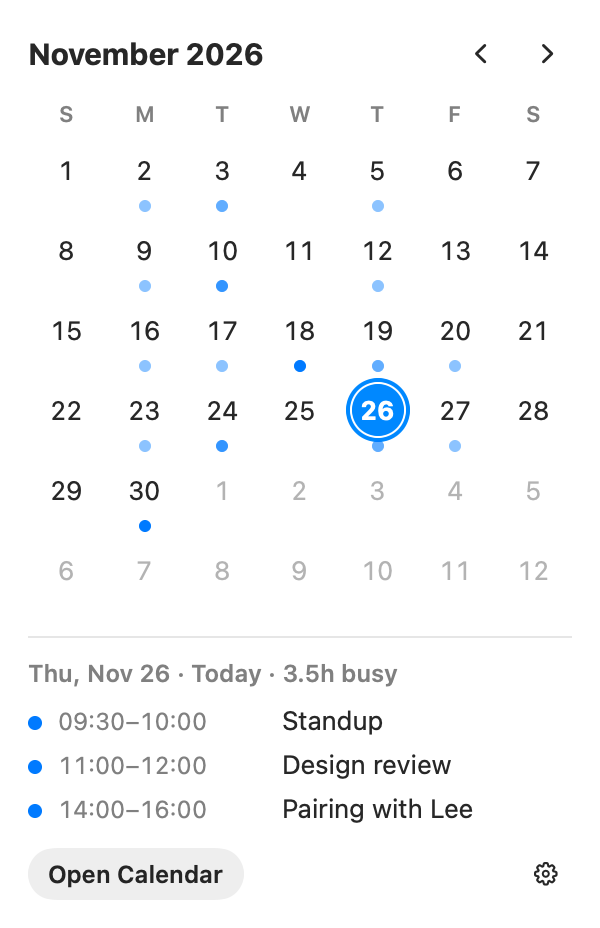
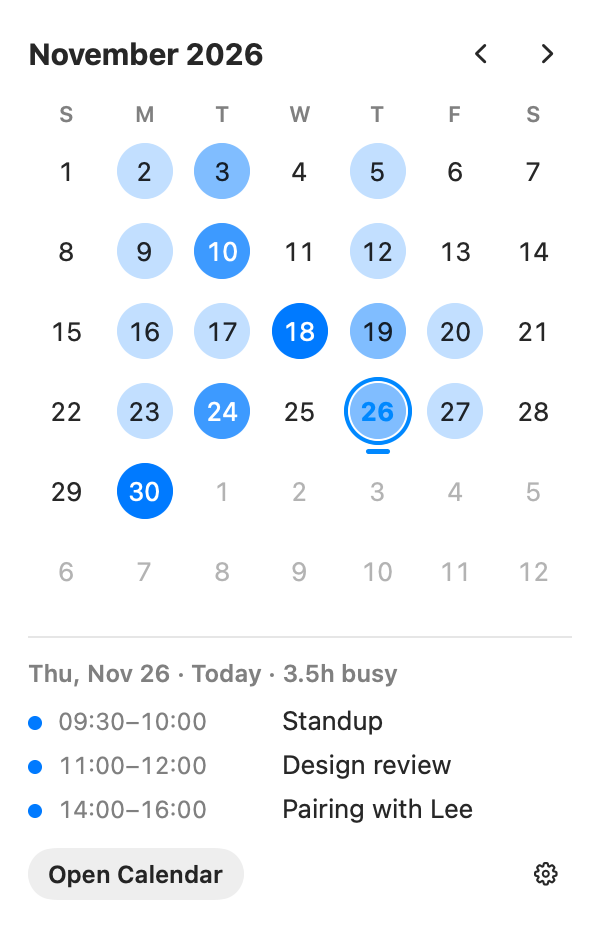
feat(app): heat as a filled circle behind the date; today gets an accent bar

diff --git a/App/Views/DayCell.swift b/App/Views/DayCell.swift
@@ -11,28 +11,28 @@ struct DayCell: View {
         let number = model.calendar.component(.day, from: day.date)
         let isSelected = model.selectedDay == day.date
         let isHovered = model.hoveredDay == day.date
-        VStack(spacing: 2) {
+        let level = model.busy(for: day.date).level
+        VStack(spacing: 5) {
             Text("\(number)")
                 .font(.system(size: 13, weight: day.isToday ? .bold : .regular).monospacedDigit())
-                .foregroundStyle(day.isToday ? Color.white : Color.primary)
-                .frame(width: 26, height: 26)
+                .foregroundStyle(HeatDot.textColor(level: level, isToday: day.isToday))
+                .frame(width: 28, height: 28)
                 .background {
-                    if day.isToday {
-                        Circle().fill(Color.accentColor)
-                    } else if isHovered {
-                        Circle().fill(Color.primary.opacity(0.1))
-                    }
+                    // The heat: a filled circle behind the date, brighter for busier days.
+                    Circle().fill(level > 0 ? HeatDot.color(level: level)
+                                            : Color.primary.opacity(isHovered ? 0.1 : 0))
                 }
                 .overlay {
                     if isSelected {
                         Circle()
                             .strokeBorder(Color.accentColor, lineWidth: 2)
-                            .frame(width: 32, height: 32)
+                            .frame(width: 34, height: 34)
                     }
                 }
-            Circle()
-                .fill(HeatDot.color(level: model.busy(for: day.date).level))
-                .frame(width: 6, height: 6)
+            // Today: a short accent bar under the date.
+            Capsule()
+                .fill(day.isToday ? Color.accentColor : Color.clear)
+                .frame(width: 12, height: 2.5)
         }
         .frame(maxWidth: .infinity)
         .frame(height: 38)
@@ -71,7 +71,13 @@ struct DayCell: View {
 enum HeatDot {
     /// Accent color at four intensity steps; level 0 draws nothing.
     static func color(level: Int) -> Color {
-        let opacity: [Double] = [0, 0.45, 0.62, 0.8, 1]
+        let opacity: [Double] = [0, 0.24, 0.5, 0.76, 1]
         return Color(nsColor: .controlAccentColor).opacity(opacity[min(max(level, 0), 4)])
+    }
+
+    /// White on the two strongest fills; otherwise normal text (accent for today).
+    static func textColor(level: Int, isToday: Bool) -> Color {
+        if level >= 3 { return .white }
+        return isToday ? .accentColor : .primary
     }
 }

diff --git a/site/index.html b/site/index.html
@@ -95,7 +95,7 @@
       <div class="real">
         <figure class="shot">
           <div class="menubar" aria-hidden="true"><span>Thu Nov 26</span><span class="mb-icon on" id="mb-day">26</span><span>9:41</span></div>
-          <img src="/img/popover.png" width="300" height="464" alt="The Dinky Cal popover: November 2026 with blue dots under busy days, today the 26th highlighted, and today's three events listed below.">
+          <img src="/img/popover.png" width="300" height="464" alt="The Dinky Cal popover: November 2026 with busy days filled in shades of blue, today the 26th selected, and today's three events listed below.">
           <figcaption>The actual app (demo calendar)</figcaption>
         </figure>
         <div>
